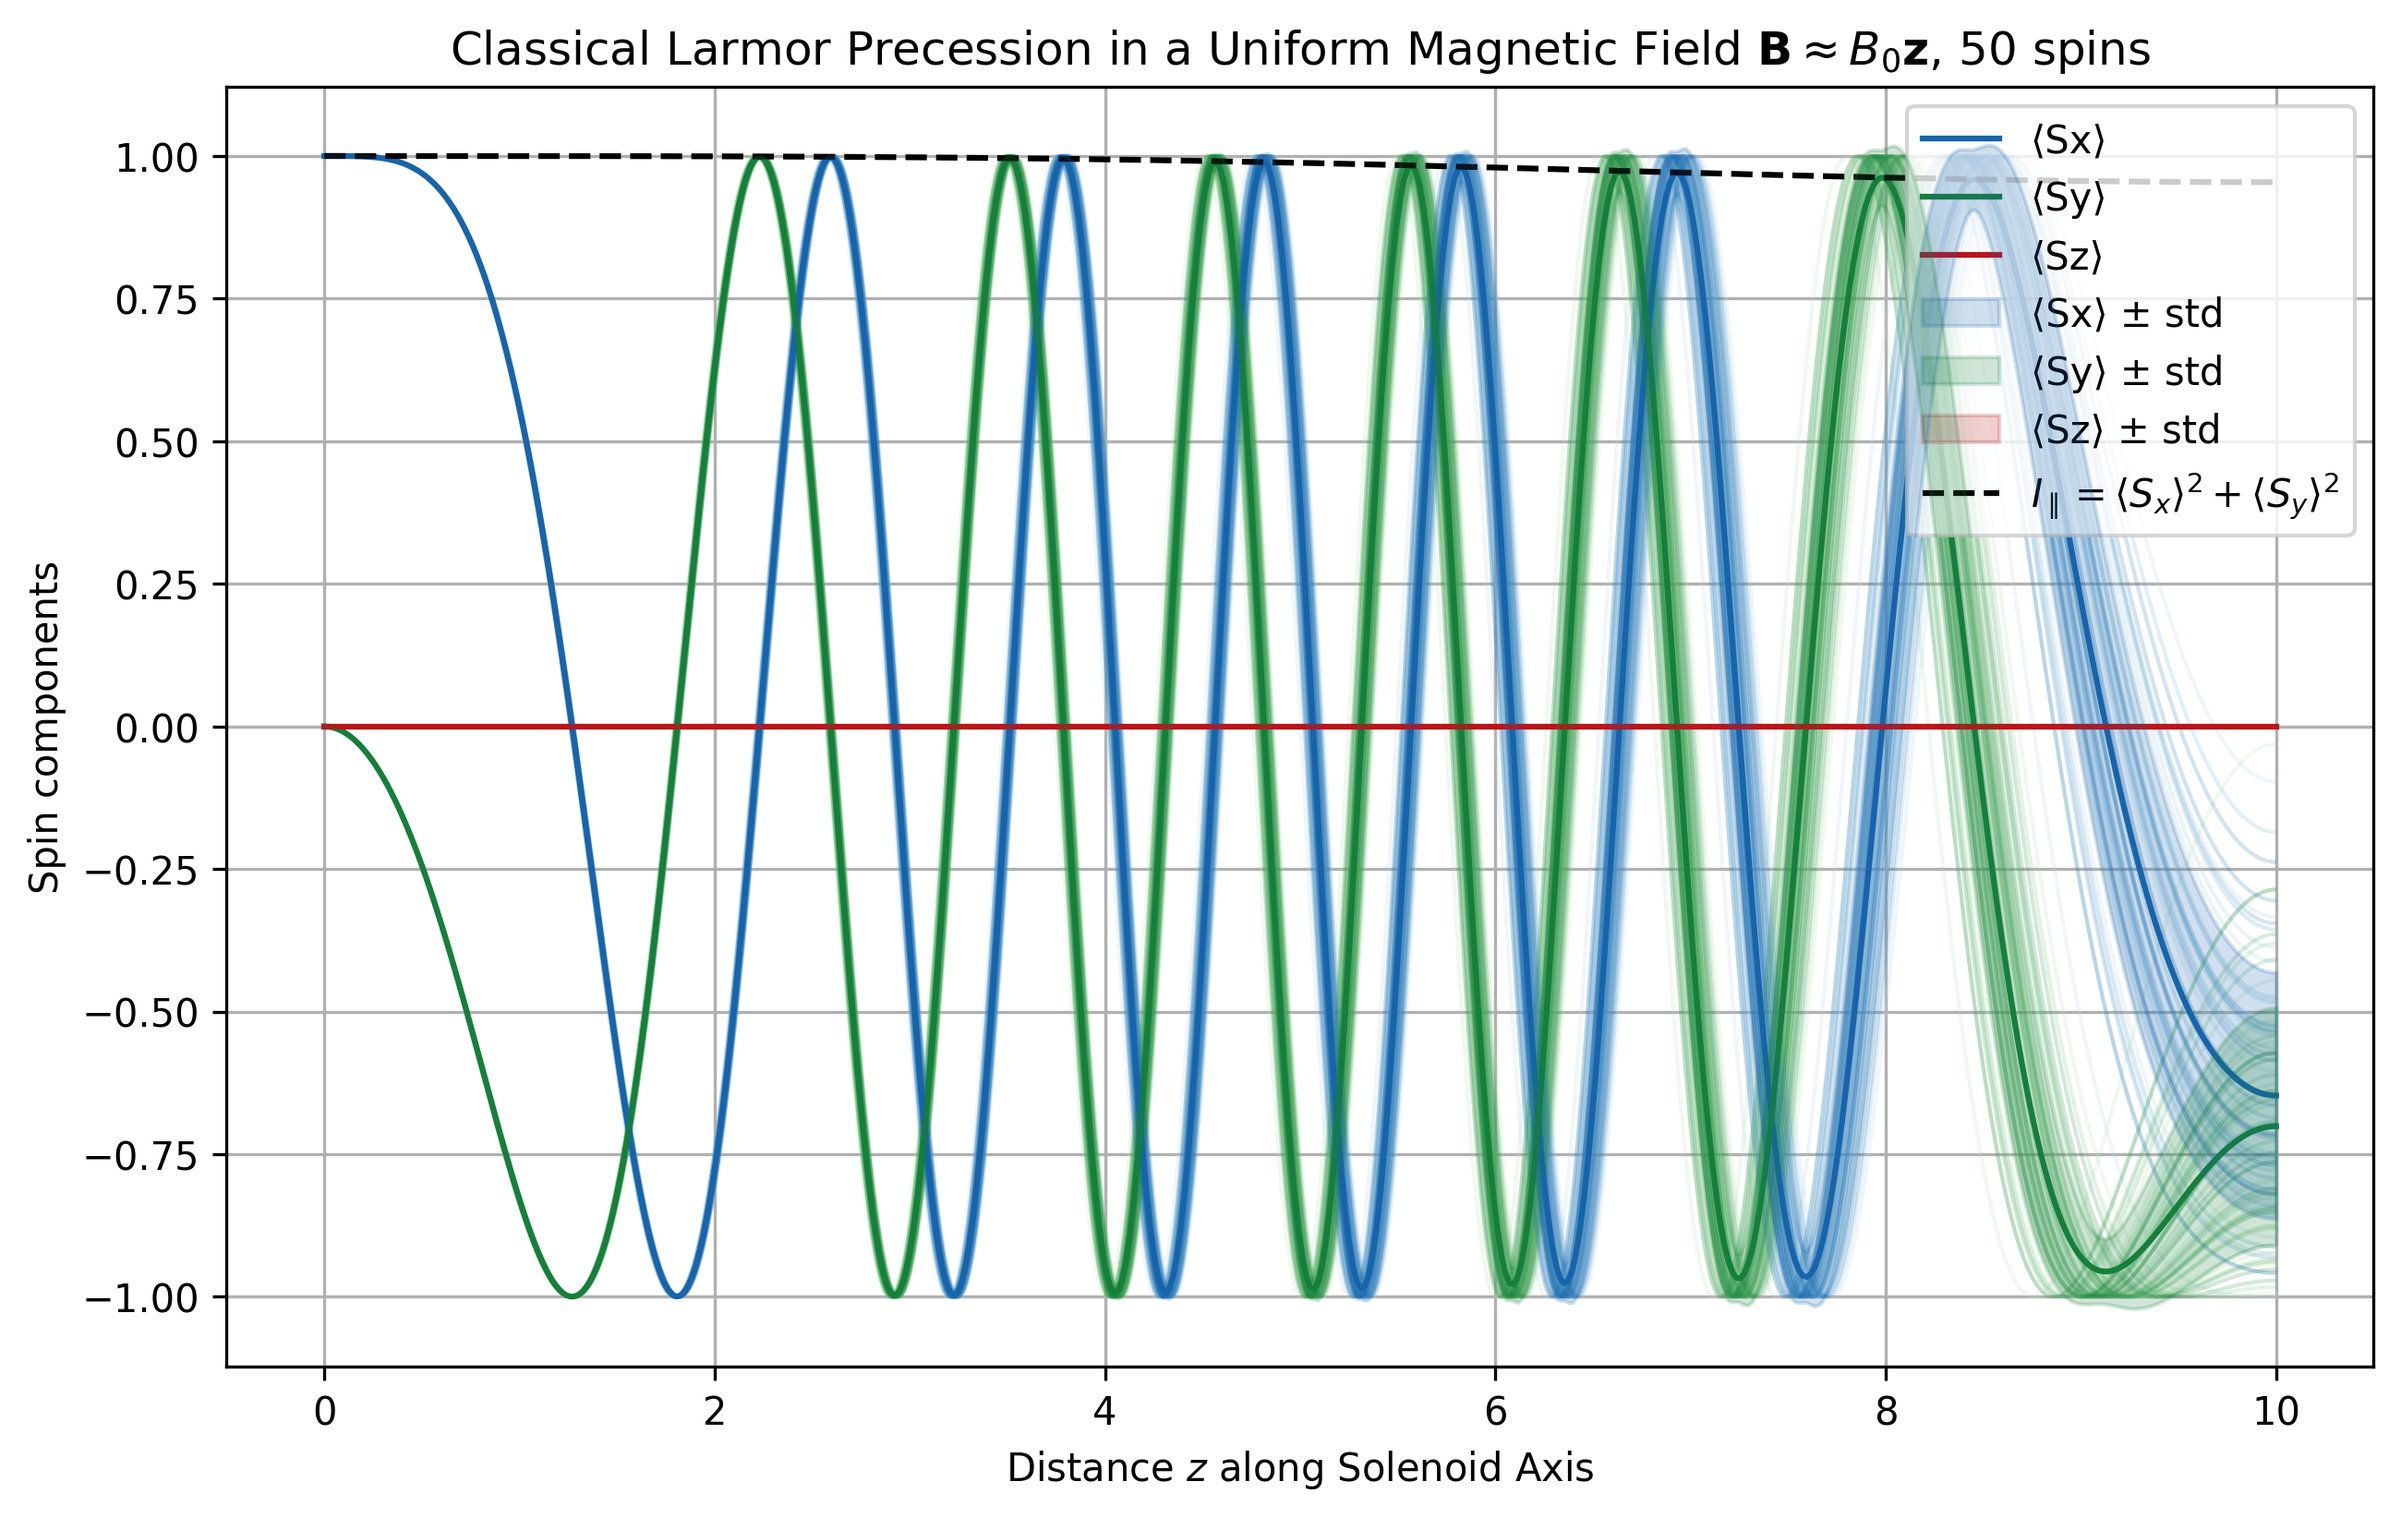
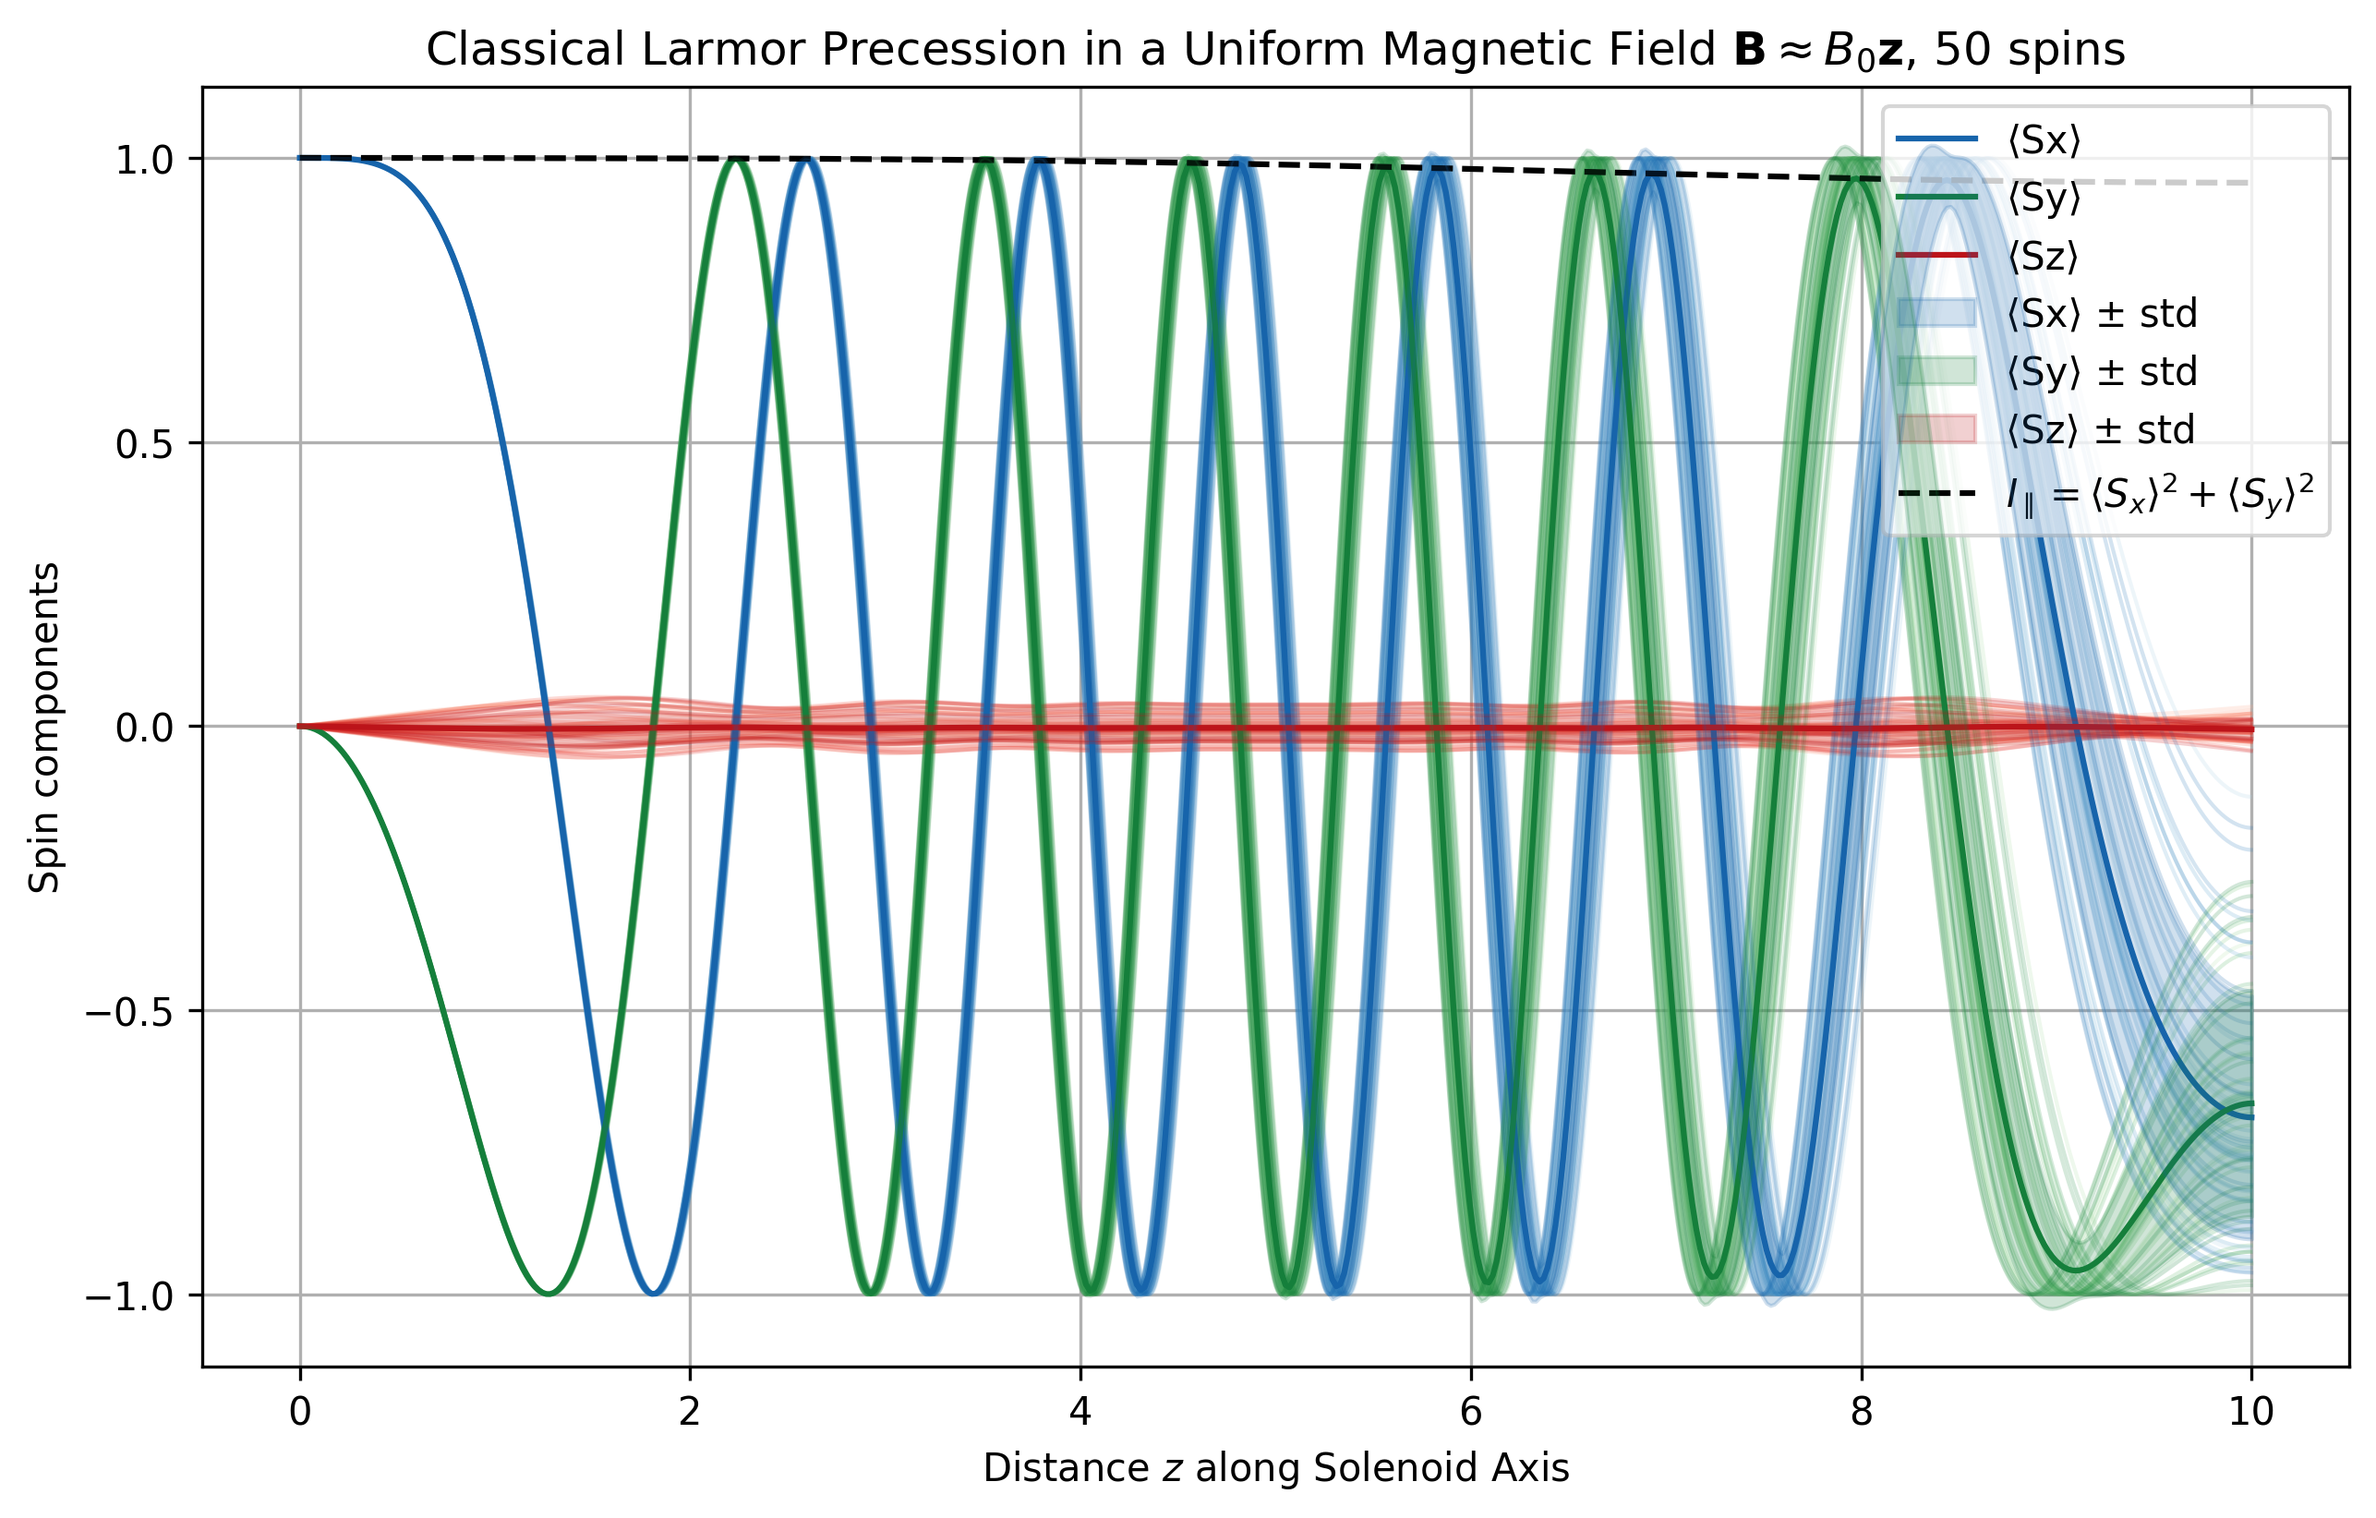
Depolarisation from aberration field

diff --git a/spinecho_sim/classical_solenoid_test.py b/spinecho_sim/classical_solenoid_test.py
@@ -60,11 +60,7 @@ def sample_disk(n: int, r_max: float) -> np.ndarray:
     # radii with PDF ∝ r  →  CDF ∝ r^2  →  r = R * sqrt(u)
     u = np.random.uniform(0, 1, size=n)
     r = r_max * np.sqrt(u)
-
-    # convert to Cartesian
-    x = r * np.cos(theta)
-    y = r * np.sin(theta)
-    return np.stack([x, y, theta], axis=1)
+    return np.stack([r, theta], axis=1)
 
 
 # -- helper: sample N uniform directions on the unit sphere --
@@ -170,7 +166,9 @@ class SolenoidSimulator:
         init_spin: NDArray[np.floating[Any]] = np.array(
             self.parameters.get("init_spin", [1.0, 0.0, 0.0])
         )
-        np.array(self.parameters.get("r_dist", 0.0))
+        perp_dist: NDArray[np.floating[Any]] = np.array(
+            self.parameters.get("perp_dist", 0.0)
+        )
 
         n: int = len(init_spin)
         z_dist = [np.arange(0, length, time_step * v) for v in velocity]
@@ -191,7 +189,8 @@ class SolenoidSimulator:
         def off_axis_field_components(
             z: float,
             r: float,
-            dz: float = 1e-4,
+            theta: float,
+            dz: float = 1e-5,
         ) -> NDArray[np.floating[Any]]:
             # Get B_0(z) and its derivatives numerically
             b0_z = get_field(z)
@@ -200,18 +199,30 @@ class SolenoidSimulator:
             b0_z = np.asarray(b0_z)[2]
 
             # Get the derivatives numerically
-            b0_p = np.gradient(b0_z, dz, axis=0)
-            b0_pp = np.gradient(b0_p, dz, axis=0)
+            b0_p = (
+                np.asarray(get_field(z + dz))[2] - np.asarray(get_field(z - dz))[2]
+            ) / (2 * dz)
+            b0_pp = (
+                np.asarray(get_field(z + dz))[2]
+                - 2 * b0_z
+                + np.asarray(get_field(z - dz))[2]
+            ) / (dz**2)
 
-            br = -0.5 * r * b0_p
-            dbz = -0.25 * r**2 * b0_pp
+            b_r = -0.5 * r * b0_p
+            db_z = -0.25 * r**2 * b0_pp
 
-            return np.array([br, 0.0, b0_z + dbz])
+            return np.array([b_r * np.cos(theta), b_r * np.sin(theta), b0_z + db_z])
 
         # Differential equation dS/dt = gamma * S x B
         def ds_dt(
             s_vec: NDArray[np.floating[Any]], b_vec: NDArray[np.floating[Any]]
         ) -> NDArray[np.floating[Any]]:
+            # Check if perp_dist was supplied by the user (not default)
+            if "perp_dist" in self.parameters:
+                # perp_dist can be scalar or array; handle both
+                r = perp_dist[spin_idx, 0]
+                theta = perp_dist[spin_idx, 1]
+                b_vec = off_axis_field_components(z_now, r, theta)
             return gyromagnetic_ratio * np.cross(s_vec, b_vec)
 
         # Find the maximum number of time steps among all spins

diff --git a/examples/classical_solenoid_spin_components.py b/examples/classical_solenoid_spin_components.py
@@ -19,7 +19,7 @@ if __name__ == "__main__":
         "time_step": 0.01,
         "length": 10.0,
         "init_spin": sample_s_uniform(50, np.array([1.0, 0.0, 0.0])),
-        "r_dist": sample_disk(50, 0.1),  # Sample a disk of radius 0.1
+        "perp_dist": sample_disk(50, 0.05),  # Sample a disk of radius 0.1
     }
     sim = SolenoidSimulator(sim_params)
     z, s = sim.run()
